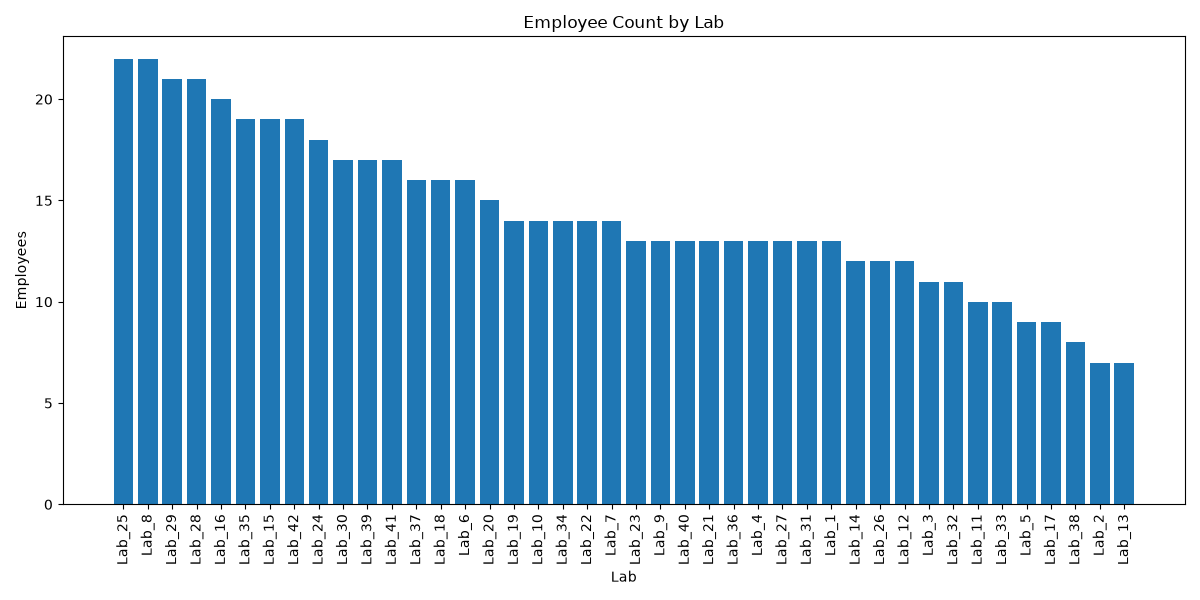
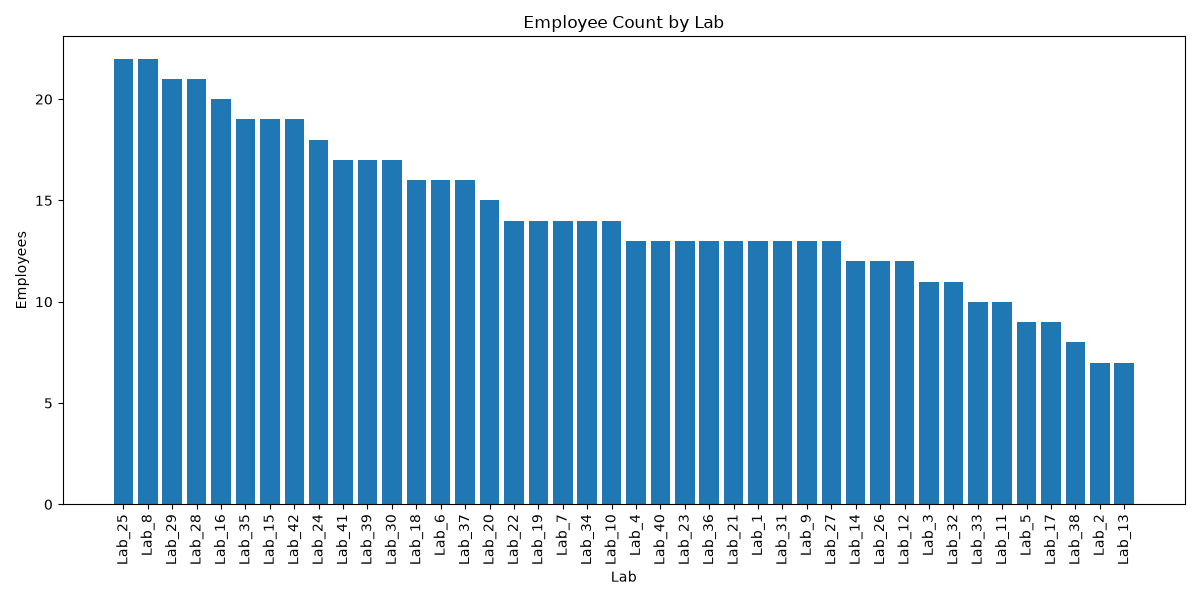
Fix logical ordering of dashboard charts

diff --git a/dashboard/app.py b/dashboard/app.py
@@ -11,7 +11,8 @@ from queries import (
     get_designation_employee_count,
     get_designation_average_age,
     get_cluster_average_age,
-    get_lab_average_age
+    get_lab_average_age,
+    get_lab_employee_count_by_cluster
 )
 from charts import (
     employee_cluster_chart,
@@ -21,6 +22,7 @@ from charts import (
     age_lab_chart,
     age_designation_chart
 )
+from streamlit_plotly_events import plotly_events
 # -----------------------------------------------------
 # Page Config
 # -----------------------------------------------------
@@ -97,6 +99,8 @@ designation_df = get_designation_average_age(conn)
 designation_age_fig = age_designation_chart(designation_df)
 
 
+designation_count_df = get_designation_employee_count(conn)
+designation_count_fig = employee_designation_chart(designation_count_df)
 
 
 cluster_age_df = get_cluster_average_age(conn)
@@ -120,16 +124,21 @@ if analysis == "Employee Count":
 
     if analyze_by == "Cluster":
 
-        st.plotly_chart(cluster_fig, use_container_width=True)
+        selected_points = plotly_events(
+            cluster_fig,
+            click_event=True,
+            hover_event=False,
+            select_event=False,
+            override_height=360,
+        )
+
+        st.write(selected_points)
 
     elif analyze_by == "Lab":
 
         st.plotly_chart(lab_fig, use_container_width=True)
 
     elif analyze_by == "Designation":
-
-        designation_count_df = get_designation_employee_count(conn)
-        designation_count_fig = employee_designation_chart(designation_count_df)
 
         st.plotly_chart(
             designation_count_fig,
@@ -143,6 +152,7 @@ elif analysis == "Average Age":
             cluster_age_fig,
             use_container_width=True
         )
+
 
     elif analyze_by == "Lab":
 

diff --git a/dashboard/queries.py b/dashboard/queries.py
@@ -90,3 +90,20 @@ def get_lab_average_age(conn):
         l.LabName
     ORDER BY l.LabID ASC;
     """).fetchdf()
+def get_lab_employee_count_by_cluster(conn, cluster_name):
+
+    return conn.execute("""
+    SELECT
+        l.LabName,
+        COUNT(*) AS EmployeeCount
+    FROM Employees e
+    JOIN Labs l
+        ON e.LabID = l.LabID
+    JOIN Clusters c
+        ON l.ClusterID = c.ClusterID
+    WHERE c.ClusterName = ?
+    GROUP BY
+        l.LabID,
+        l.LabName
+    ORDER BY l.LabID;
+    """, [cluster_name]).fetchdf()